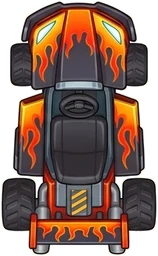
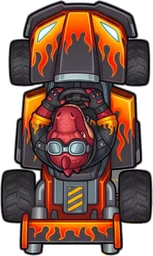
Kart Race: new top-down kart art with the drivers in their seats
All 12 karts now come from the top-down sheets (no more recolours). The
empty karts are kept in art/karts/empty/ for the 3D module.

Claude-Session: https://claude.ai/code/session_01MC4zuKXFaCxVKkwqiM8kVR

diff --git a/test/kart-racers.test.js b/test/kart-racers.test.js
@@ -54,3 +54,15 @@ test('art: every racer has a portrait file; sprites, where listed, exist too', a
   }
   assert.ok(R.RACERS.every((r) => r.sprite), 'every racer has a kart picture');
 });
+
+test('art: kart pictures are 256 px tall with a see-through background; each has an empty twin for 3D', async () => {
+  const { readFileSync, existsSync } = await import('node:fs');
+  const file = (p) => new URL('../public' + p, import.meta.url);
+  for (const r of R.RACERS) {
+    const b = readFileSync(file(r.sprite));
+    assert.equal(b.toString('ascii', 12, 16), 'VP8X', `${r.id}: extended WebP`);
+    assert.ok(b[20] & 0x10, `${r.id}: has alpha`);
+    assert.equal(b.readUIntLE(27, 3) + 1, 256, `${r.id}: 256 tall`);
+    assert.ok(existsSync(file(r.sprite.replace('/karts/', '/karts/empty/'))), `${r.id}: empty kart`);
+  }
+});

diff --git a/public/games/kart-race/art/README.md b/public/games/kart-race/art/README.md
@@ -1,15 +1,14 @@
 # Kart Race art
 
-Placeholder art, cropped from the character and kart sheets; replace any file with a clean
+Cut from the character and top-down kart sheets; replace any file with a clean
 version of the same name and size and it shows up as is.
 
 - `portraits/<racer id>.webp`: the round coin token, gold frame included, 160×160.
 - `karts/<racer id>.webp`: the kart seen from above, **nose pointing up**, transparent
   background, wheels included, 256 px tall. Drawn 1.25 field units long on the track.
   Only racers listed in `SPRITES` in `../racers.js` use a picture; the rest are drawn as shapes.
-  To add one, add the file and the racer's id to `SPRITES`.
+  To add one, add the file and the racer's id to `SPRITES`. These show the driver in the seat.
+- `karts/empty/<racer id>.webp`: the same kart with nobody in it, same format. Not used in 2D;
+  kept for the 3D module.
 
 Racer ids: rex, roxy, zip, zara, swift, sky, boulder, bella, dash, dot, rascal, ruby.
-
-Notes on the placeholders: Roxy, Zara, Sky, Bella, Dot and Ruby's karts are recolours of
-their partner's kart (Zara's still says ZIP on the nose and Sky's says SWIFT on the rear wing).
